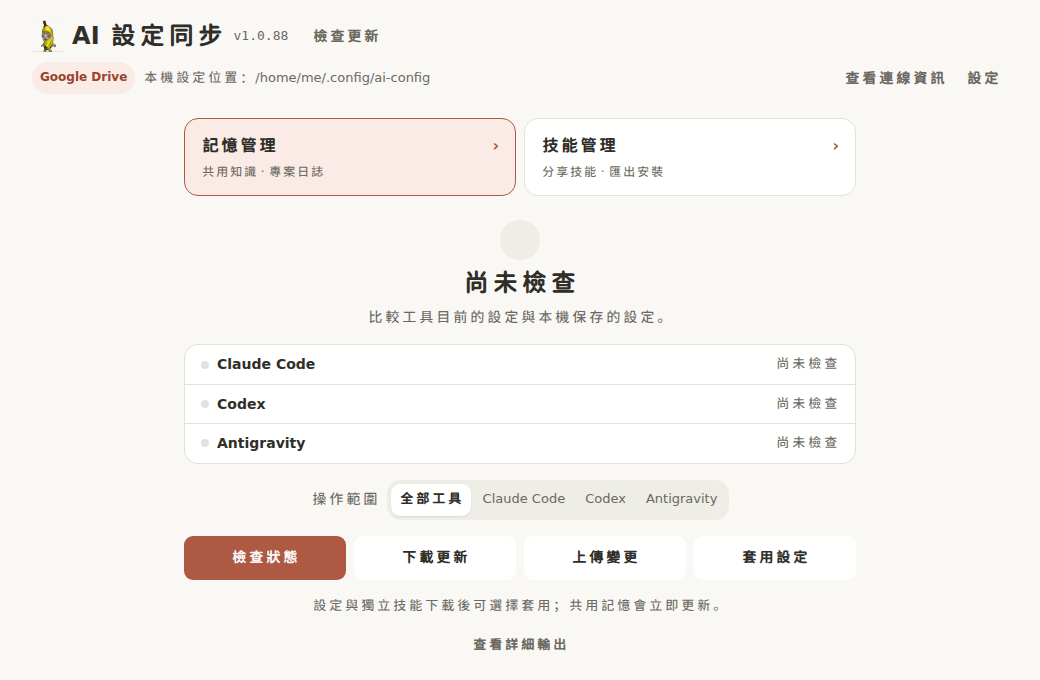
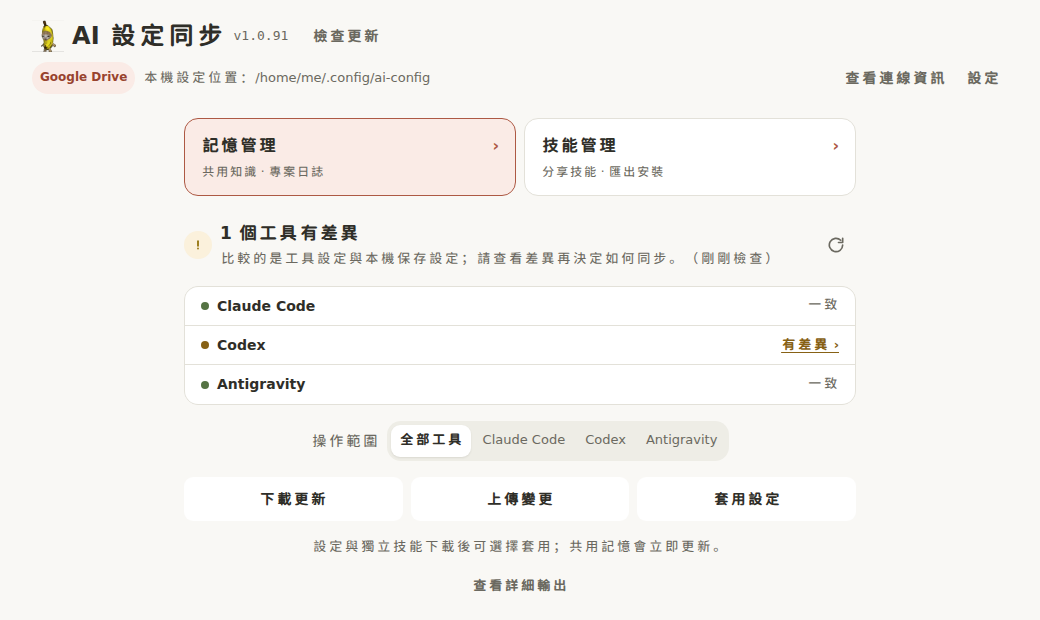
feat(gui): status runs on open, and a difference is one click away
Opening the app showed "not checked" and a large button to check; the
first thing anyone wants is the state, so it now runs on open. The
summary shrinks to one line with a refresh icon beside it, leaving
download, upload and apply as the three actions. A tool marked as
differing links straight to its section of the output.

Codex also stops syncing its own UI state: the new-model notice
counters, the record of migrations it applied, and the one-time
screen-reader check -- the last kept per machine inside [tui], beside
status_line, which still syncs.

diff --git a/gui/tests/regressions.spec.ts b/gui/tests/regressions.spec.ts
@@ -56,17 +56,35 @@ test("只檢查 Codex 時，摘要不宣稱所有工具或雲端一致", async (
   const summary = await page.locator("#hero-state").innerText();
   expect(summary).not.toMatch(/所有工具.*一致|設定已是最新/);
   expect(summary).not.toMatch(/(?:與|跟)雲端一致/);
-  expect((await calls(page, "run"))[0].args).toEqual(["status", "codex"]);
+  // 第一次是開啟時的自動檢查,這裡要看的是手動那次
+  expect((await calls(page, "run")).at(-1)?.args).toEqual(["status", "codex"]);
 });
 
+const differs = {
+  code: 0,
+  output: "═══ Status: claude ═══\n✓ No differences found\n═══ Status: codex ═══\n⚠ settings differ\n+ model = changed\n═══ Status: agy ═══\n✓ No differences found",
+};
+
 test("有差異的狀態維持差異提示", async ({ page }) => {
-  await boot(page, { run: [{
-    code: 0, output: "═══ Status: codex ═══\n⚠ settings differ\n+ model = changed",
-  }] });
-  await page.locator("[data-tool=codex]").click();
-  await page.locator("[data-cmd=status]").click();
-  await expect(page.locator("[data-tool-row=codex] .tool-state")).toHaveText("有差異");
+  await boot(page, { run: [differs] });
+  await expect(page.locator("[data-tool-row=codex] .tool-state")).toHaveText("有差異 ›");
   await expect(page.locator("#hero-title")).toContainText("差異");
+});
+
+test("開啟就自動檢查，不必先按按鈕", async ({ page }) => {
+  await boot(page);
+  await expect.poll(async () => (await calls(page, "run"))[0]?.args).toEqual(["status", "all"]);
+  await expect(page.locator("[data-tool-row=claude] .tool-state")).not.toHaveText("尚未檢查");
+  // 大顆的檢查按鈕拿掉了,只剩狀態旁的重新整理
+  await expect(page.locator("#actions [data-cmd=status]")).toHaveCount(0);
+  await expect(page.locator(".status-refresh[data-cmd=status]")).toBeVisible();
+});
+
+test("點有差異直接跳到那個工具的差異", async ({ page }) => {
+  await boot(page, { run: [differs] });
+  await page.locator("[data-diff-tool=codex]").click();
+  await expect(page.locator("#output")).toBeVisible();
+  await expect(page.locator("#output-status-codex")).toBeInViewport();
 });
 
 test("離開上傳預覽取消確認，再次預覽只能使用新 token", async ({ page }) => {

diff --git a/gui/index.html b/gui/index.html
@@ -209,10 +209,15 @@ claude plugin install acg@acg</textarea>
             <span class="resource-description">分享技能 · 匯出安裝</span>
           </button>
         </nav>
-        <div class="hero-state" id="hero-state" role="status">
-          <span class="hero-mark" id="hero-mark" aria-hidden="true"></span>
-          <h2 class="hero-title" id="hero-title">尚未檢查</h2>
-          <p class="hero-sub" id="hero-sub">比較工具目前的設定與本機保存的設定。</p>
+        <div class="status-head">
+          <div class="hero-state" id="hero-state" role="status">
+            <span class="hero-mark" id="hero-mark" aria-hidden="true"></span>
+            <h2 class="hero-title" id="hero-title">尚未檢查</h2>
+            <p class="hero-sub" id="hero-sub">比較工具目前的設定與本機保存的設定。</p>
+          </div>
+          <button class="btn btn-ghost status-refresh" data-cmd="status" aria-label="重新檢查狀態" title="重新檢查狀態">
+            <svg viewBox="0 0 24 24" aria-hidden="true" focusable="false"><path d="M20 12a8 8 0 1 1-2.34-5.66"/><polyline points="20 4 20 9 15 9"/></svg>
+          </button>
         </div>
 
         <div class="tool-rows" id="tool-rows">
@@ -245,7 +250,6 @@ claude plugin install acg@acg</textarea>
         </div>
 
         <div class="hero-actions" id="actions">
-          <button class="btn btn-primary hero-primary" data-cmd="status">檢查狀態</button>
           <button class="btn hero-secondary" data-cmd="pull">下載更新</button>
           <button class="btn hero-secondary" data-cmd="push">上傳變更</button>
           <button class="btn hero-secondary" data-cmd="apply">套用設定</button>

diff --git a/gui/src/style.css b/gui/src/style.css
@@ -1726,3 +1726,17 @@ summary:focus-visible,
 .handoff-thread-meta { color: var(--color-ink-soft); }
 .handoff-thread[data-stale='true'] .handoff-thread-meta { color: var(--color-warn); }
 .handoff-thread-summary { color: var(--color-ink-soft); overflow-wrap: anywhere; }
+
+/* 狀態摘要縮成一行,重新整理放旁邊;開啟時就會自動檢查一次,不再需要大按鈕 */
+.status-head { display: flex; align-items: center; gap: var(--space-sm); inline-size: 100%; flex-shrink: 0; }
+.status-head .hero-state { flex: 1; display: grid; grid-template-columns: auto minmax(0, 1fr); column-gap: var(--space-sm); row-gap: 0.125rem; align-items: center; text-align: start; }
+.status-head .hero-mark { grid-row: span 2; inline-size: 1.75rem; block-size: 1.75rem; background-size: 1.125rem; }
+.status-head .hero-title { font-size: 1.0625rem; }
+.status-head .hero-sub { font-size: 0.8125rem; }
+.status-refresh { inline-size: 2.5rem; block-size: 2.5rem; padding: 0; display: inline-grid; place-items: center; flex-shrink: 0; }
+.status-refresh svg { inline-size: 1.25rem; block-size: 1.25rem; fill: none; stroke: currentColor; stroke-width: 2; stroke-linecap: round; stroke-linejoin: round; }
+.status-refresh:disabled svg { opacity: 0.4; }
+.hero-actions { grid-template-columns: repeat(3, minmax(0, 1fr)); }
+.tool-diff { padding: 0; border: 0; background: none; color: var(--color-warn); font: inherit; cursor: pointer; text-decoration: underline; text-underline-offset: 0.2em; }
+.tool-diff:hover { color: var(--color-accent); }
+.tool-diff:focus-visible { outline: 0.125rem solid var(--color-focus); outline-offset: 0.125rem; border-radius: var(--radius-sm); }

diff --git a/gui/src/status.ts b/gui/src/status.ts
@@ -116,7 +116,14 @@ export function updateStatus(result: RunResult, tool: string): void {
       label.textContent = "一致";
     } else if (state === "pending") {
       row.classList.add("is-pending");
-      label.textContent = "有差異";
+      // 看到有差異,下一步就是看差在哪;直接給一個能點的入口
+      const jump = document.createElement("button");
+      jump.type = "button";
+      jump.className = "tool-diff";
+      jump.dataset.diffTool = row.dataset.toolRow ?? "";
+      jump.textContent = "有差異 ›";
+      jump.setAttribute("aria-label", `查看 ${row.querySelector(".tool-name")?.textContent ?? ""} 的差異`);
+      label.replaceChildren(jump);
       pending += 1;
     } else {
       label.textContent = state === "unavailable" ? "缺少設定／工具" : "未檢查";
@@ -294,3 +301,11 @@ $("#config-info").addEventListener("click", () => {
   if (bridge) void perform("連線資訊", () => bridge.config_info());
 });
 
+
+$("#tool-rows").addEventListener("click", (event) => {
+  const jump = (event.target as HTMLElement).closest<HTMLElement>("[data-diff-tool]");
+  if (!jump) return;
+  openOutput();
+  const section = document.getElementById(`output-status-${jump.dataset.diffTool}`);
+  section?.scrollIntoView({ block: "start" });
+});

diff --git a/docs/slides/intro.html b/docs/slides/intro.html
@@ -127,8 +127,8 @@
       </div>
       </div>
       <figure class="picture">
-        <img class="gui-shot" src="./gui-main.png" width="1040" height="680" alt="acg Desktop 主畫面：三個工具的檢查狀態，下方是檢查狀態、下載更新、上傳變更、套用設定四個按鈕">
-        <figcaption>不打指令也行：Desktop 主畫面的四個按鈕就是這四步（範例資料）。</figcaption>
+        <img class="gui-shot" src="./gui-main.png" width="1040" height="620" alt="acg Desktop 主畫面：開啟時自動檢查三個工具，Codex 標示有差異可點進去看；下方是下載更新、上傳變更、套用設定三個按鈕">
+        <figcaption>不打指令也行：打開 Desktop 就先看差異，有差異點進去看；下載、上傳、套用各一顆（範例資料）。</figcaption>
       </figure>
     </div>
   </section>

diff --git a/gui/src/shell.ts b/gui/src/shell.ts
@@ -318,7 +318,12 @@ export function renderOutput(text: string): void {
     if (line.startsWith("✓")) span.className = "line-ok";
     else if (line.startsWith("⚠")) span.className = "line-warn";
     else if (line.startsWith("✗")) span.className = "line-err";
-    else if (line.startsWith("═══")) span.className = "line-head";
+    else if (line.startsWith("═══")) {
+      span.className = "line-head";
+      // 狀態頁點「有差異」要能跳到這一段
+      const tool = /^═+\s*Status:\s*(\S+)/.exec(line)?.[1];
+      if (tool) span.id = `output-status-${tool}`;
+    }
     else if (line.startsWith("ℹ")) span.className = "line-dim";
     else if (line.startsWith("+")) span.className = "line-add";
     else if (/^-(?!\s)/.test(line)) span.className = "line-remove";

diff --git a/gui/tests/memory-apply.spec.ts b/gui/tests/memory-apply.spec.ts
@@ -101,7 +101,7 @@ test("下載永遠 all、不自動套用，提供後續預覽", async ({ page })
   await expect(page.locator(".command-hint")).toContainText("共用記憶會立即更新");
   await page.locator("[data-cmd=pull]").click();
   await expect(page.locator("#pull-apply")).toBeVisible();
-  expect((await calls(page, "run"))[0].args).toEqual(["pull", "all"]);
+  expect((await calls(page, "run")).map(call => call.args)).toContainEqual(["pull", "all"]);
   expect(await calls(page, "preview_apply")).toHaveLength(0);
   await page.locator("#pull-apply").click();
   await expect(page.locator("#apply-preview")).toBeDisabled();

diff --git a/gui/src/main.ts b/gui/src/main.ts
@@ -17,13 +17,18 @@ import { state } from "./state";
 import { feedback, syncControls } from "./shell";
 import { loadSkills } from "./skills";
 import { loadInfo, setRequestBoot } from "./connection";
+import { runCommand } from "./status";
 
 setRequestBoot(() => boot());
 
 async function boot(): Promise<void> {
   syncControls();
   await loadInfo();
-  if (state.connected && state.configured) await loadSkills();
+  if (state.connected && state.configured) {
+    await loadSkills();
+    // 打開就是想知道現在的狀況;不必先按一顆「檢查」
+    await runCommand("status");
+  }
 }
 
 initializeSelects();

diff --git a/ai_config/tools/codex.py b/ai_config/tools/codex.py
@@ -50,6 +50,12 @@ _MANAGED_PLUGIN_HEADER = re.compile(
 _MARKETPLACE_HEADER = re.compile(r"^\[marketplaces\.")
 # hook 信任記錄以本機路徑為鍵,別台同步過來的只會是不存在的路徑
 _HOOK_STATE_HEADER = re.compile(r"^\[hooks\.state(\]|\.)")
+# Codex 自己寫的介面狀態:新模型提示顯示過幾次、做過哪些模型遷移。
+# 不是設定,同步過去只會讓每次 status 都冒出差異
+_UI_STATE_HEADER = re.compile(r"^\[(tui\.model_availability_nux|notice\.model_migrations)\]")
+# 跟設定混在同一個區塊裡的狀態旗標:[tui] 還有 status_line 這種真正的偏好
+_MACHINE_LOCAL_TABLE_KEYS = {"tui": {"screen_reader_detection_done"}}
+_TABLE_NAME = re.compile(r"^\[([A-Za-z0-9_.-]+)\]\s*$")
 _ANY_HEADER = re.compile(r"^\[")
 
 
@@ -59,6 +65,7 @@ def _is_machine_local_header(line: str) -> bool:
         or _MANAGED_PLUGIN_HEADER.match(line)
         or _MARKETPLACE_HEADER.match(line)
         or _HOOK_STATE_HEADER.match(line)
+        or _UI_STATE_HEADER.match(line)
     )
 _TOP_LEVEL_ASSIGNMENT = re.compile(r"^\s*([A-Za-z0-9_-]+)\s*=")
 # 模型與思考強度是每台自己挑的,常常只是為了問一個問題臨時切換;跟 Claude
@@ -103,6 +110,7 @@ def filter_codex_config(text: str) -> str:
     out: list[str] = []
     skip = False
     in_table = False
+    table = ""
     for line in text.splitlines():
         if _is_machine_local_header(line):
             skip = True
@@ -111,8 +119,12 @@ def filter_codex_config(text: str) -> str:
         if _ANY_HEADER.match(line):
             skip = False
             in_table = True
-        match = None if in_table else _TOP_LEVEL_ASSIGNMENT.match(line)
-        if match and match.group(1) in _MACHINE_LOCAL_TOP_LEVEL_KEYS:
+            named = _TABLE_NAME.match(line)
+            table = named.group(1) if named else ""
+        match = _TOP_LEVEL_ASSIGNMENT.match(line)
+        if match and not in_table and match.group(1) in _MACHINE_LOCAL_TOP_LEVEL_KEYS:
+            continue
+        if match and in_table and match.group(1) in _MACHINE_LOCAL_TABLE_KEYS.get(table, ()):
             continue
         if not skip:
             out.append(line)
@@ -198,10 +210,41 @@ def merge_codex_config(source_text: str, target_text: str) -> str:
 
     projects = _tidy_hook_trust(projects)
     result = filter_codex_config(source_text).rstrip("\n")
+    result = _insert_table_statements(result, _table_machine_local_statements(target_text))
     block = "\n".join(projects).rstrip("\n")
     if block:
         result += "\n" + block
     return _insert_top_level_statements(result + "\n", machine_local)
+
+
+def _table_machine_local_statements(text: str) -> dict:
+    """Machine-local keys that live inside an ordinary table, by table name."""
+    found: dict = {}
+    table = ""
+    for line in text.splitlines():
+        if _ANY_HEADER.match(line):
+            named = _TABLE_NAME.match(line)
+            table = named.group(1) if named else ""
+            continue
+        match = _TOP_LEVEL_ASSIGNMENT.match(line)
+        if table and match and match.group(1) in _MACHINE_LOCAL_TABLE_KEYS.get(table, ()):
+            found.setdefault(table, []).append(line)
+    return found
+
+
+def _insert_table_statements(text: str, statements: dict) -> str:
+    """Put each kept key back under its own table, creating the table if gone."""
+    if not statements:
+        return text
+    lines = text.splitlines()
+    for table, kept in statements.items():
+        header = f"[{table}]"
+        index = next((i for i, line in enumerate(lines) if line.strip() == header), None)
+        if index is None:
+            lines += ["", header, *kept]
+        else:
+            lines[index + 1:index + 1] = kept
+    return "\n".join(lines)
 
 
 def stage_projection(dst: Path, *, category: str = "all") -> None:

diff --git a/tests/test_python_migration.py b/tests/test_python_migration.py
@@ -806,3 +806,44 @@ def test_apply_strips_settings_misplaced_under_hook_trust() -> None:
         "remember@remember-dev:hooks/hooks.codex.json:session_start:0:0"
     ]
     assert entry == {"trusted_hash": "sha256:plugin"}
+
+
+def test_codex_ui_state_stays_on_each_machine() -> None:
+    """Counters and one-time flags Codex writes read as drift on every status.
+
+    [tui.model_availability_nux] counts how often the new-model notice was
+    shown; [notice.model_migrations] records migrations Codex applied; and
+    screen_reader_detection_done marks a one-time check. None is a setting,
+    and one sits inside [tui] beside status_line, which is.
+    """
+    import tomllib
+
+    from ai_config.tools.codex import filter_codex_config, merge_codex_config
+
+    shared = (
+        'personality = "pragmatic"\n\n'
+        "[notice]\nhide_full_access_warning = true\n\n"
+        '[notice.model_migrations]\n"a" = "b"\n\n'
+        '[tui]\nstatus_line = ["model"]\nscreen_reader_detection_done = true\n\n'
+        '[tui.model_availability_nux]\n"gpt-5.5" = 4\n\n'
+        "[features]\nx = true\n"
+    )
+    gathered = filter_codex_config(shared)
+    assert "model_availability_nux" not in gathered
+    assert "model_migrations" not in gathered
+    assert "screen_reader_detection_done" not in gathered
+    assert "hide_full_access_warning" in gathered
+    assert "status_line" in gathered
+
+    live = (
+        '[tui]\nstatus_line = ["old"]\nscreen_reader_detection_done = true\n\n'
+        '[tui.model_availability_nux]\n"gpt-6" = 2\n\n'
+        '[notice.model_migrations]\n"x" = "y"\n'
+    )
+    applied = tomllib.loads(merge_codex_config(gathered, live))
+    assert applied["tui"]["status_line"] == ["model"]
+    assert applied["tui"]["screen_reader_detection_done"] is True
+    assert applied["tui"]["model_availability_nux"] == {"gpt-6": 2}
+    assert applied["notice"]["model_migrations"] == {"x": "y"}
+    assert applied["notice"]["hide_full_access_warning"] is True
+    assert applied["features"]["x"] is True
